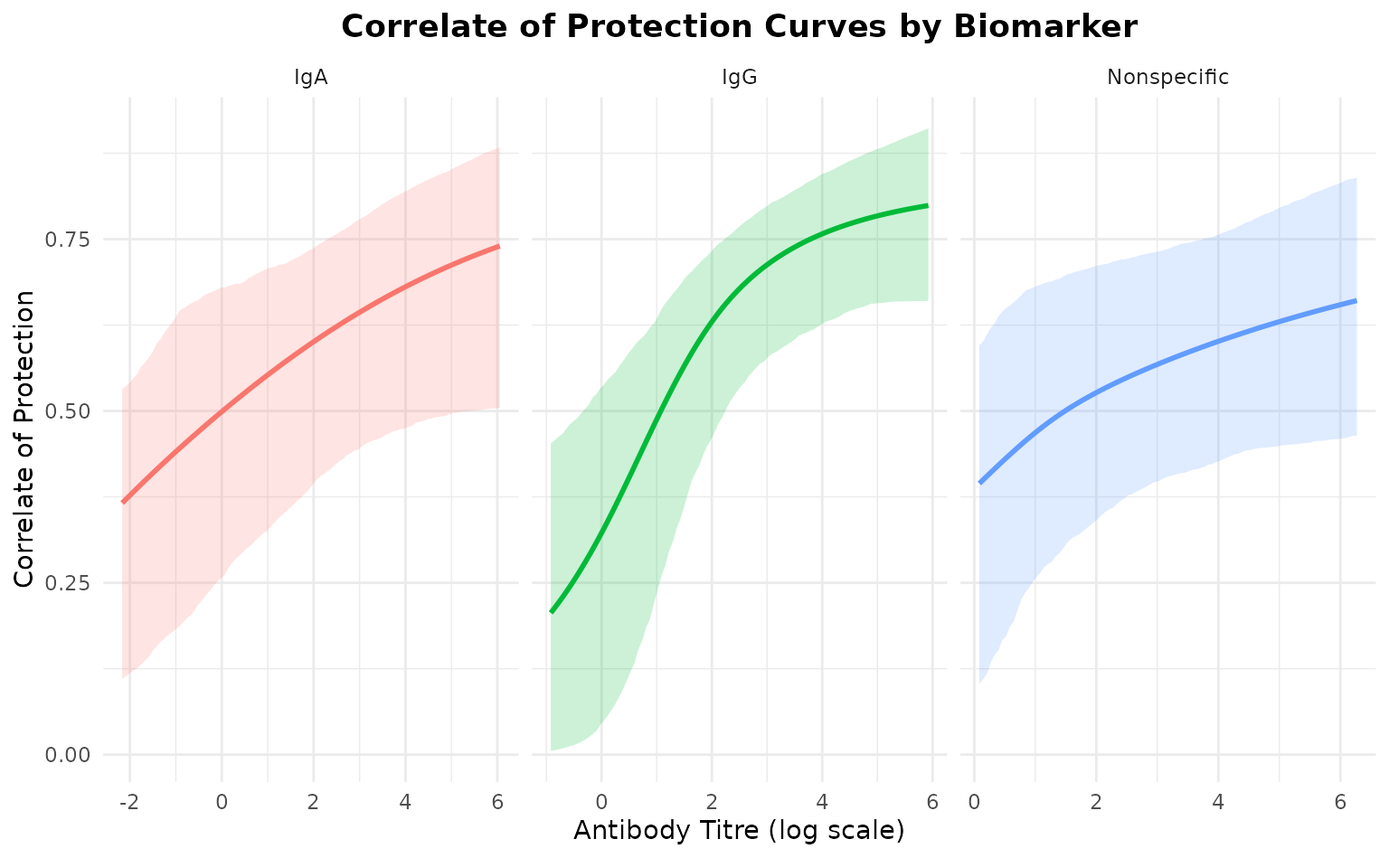
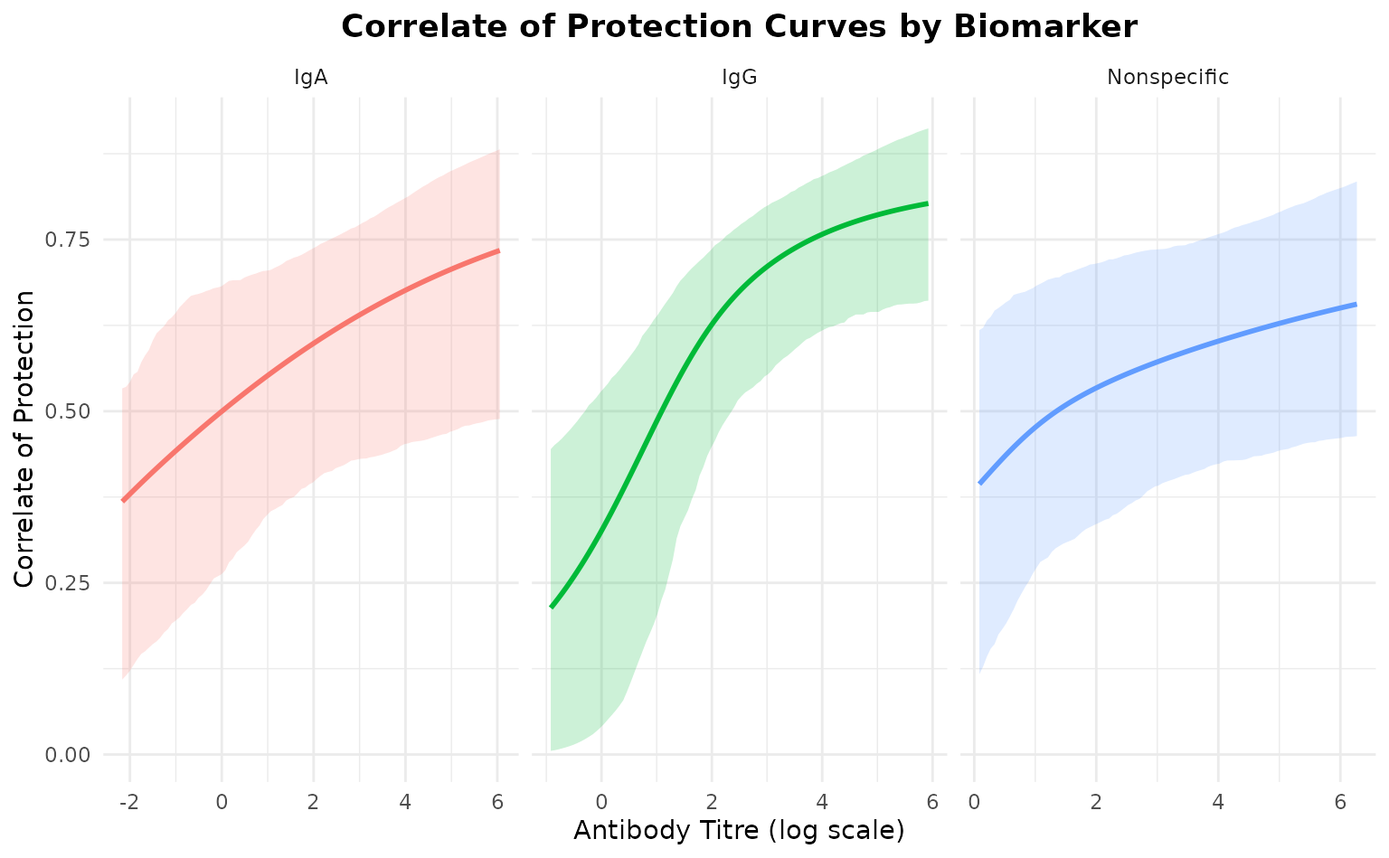
Deploying to gh-pages from @ seroanalytics/seroCOP@3b93e4ecfdc1b70e32760bc4ac2b8ab52de0d7f4 🚀

diff --git a/articles/multi-biomarker.html b/articles/multi-biomarker.html
@@ -223,16 +223,18 @@ all biomarkers:</p>
 <span>  warmup <span class="op">=</span> <span class="fl">500</span>,</span>
 <span>  cores <span class="op">=</span> <span class="fl">1</span></span>
 <span><span class="op">)</span></span>
+<span><span class="co">#&gt; Warning: Bulk Effective Samples Size (ESS) is too low, indicating posterior means and medians may be unreliable.</span></span>
+<span><span class="co">#&gt; Running the chains for more iterations may help. See</span></span>
+<span><span class="co">#&gt; https://mc-stan.org/misc/warnings.html#bulk-ess</span></span>
 <span><span class="co">#&gt; Warning: Tail Effective Samples Size (ESS) is too low, indicating posterior variances and tail quantiles may be unreliable.</span></span>
 <span><span class="co">#&gt; Running the chains for more iterations may help. See</span></span>
 <span><span class="co">#&gt; https://mc-stan.org/misc/warnings.html#tail-ess</span></span>
+<span><span class="co">#&gt; Warning: Bulk Effective Samples Size (ESS) is too low, indicating posterior means and medians may be unreliable.</span></span>
+<span><span class="co">#&gt; Running the chains for more iterations may help. See</span></span>
+<span><span class="co">#&gt; https://mc-stan.org/misc/warnings.html#bulk-ess</span></span>
 <span><span class="co">#&gt; Warning: Tail Effective Samples Size (ESS) is too low, indicating posterior variances and tail quantiles may be unreliable.</span></span>
 <span><span class="co">#&gt; Running the chains for more iterations may help. See</span></span>
 <span><span class="co">#&gt; https://mc-stan.org/misc/warnings.html#tail-ess</span></span>
-<span><span class="co">#&gt; Warning: There were 4 divergent transitions after warmup. See</span></span>
-<span><span class="co">#&gt; https://mc-stan.org/misc/warnings.html#divergent-transitions-after-warmup</span></span>
-<span><span class="co">#&gt; to find out why this is a problem and how to eliminate them.</span></span>
-<span><span class="co">#&gt; Warning: Examine the pairs() plot to diagnose sampling problems</span></span>
 <span><span class="co">#&gt; Warning: Bulk Effective Samples Size (ESS) is too low, indicating posterior means and medians may be unreliable.</span></span>
 <span><span class="co">#&gt; Running the chains for more iterations may help. See</span></span>
 <span><span class="co">#&gt; https://mc-stan.org/misc/warnings.html#bulk-ess</span></span>
@@ -286,27 +288,27 @@ within the model as <code>1 - (prob_infection / ceiling)</code>.</p>
 <span><span class="co">#&gt; </span></span>
 <span><span class="co">#&gt; === IgG ===</span></span>
 <span><span class="co">#&gt;      titre correlate_of_risk correlate_of_protection</span></span>
-<span><span class="co">#&gt; 1 3.244908         0.2352331               0.7262376</span></span>
-<span><span class="co">#&gt; 2 2.542770         0.2738127               0.6813175</span></span>
-<span><span class="co">#&gt; 3 3.427785         0.2275775               0.7351306</span></span>
-<span><span class="co">#&gt; 4 4.026987         0.2073856               0.7585850</span></span>
-<span><span class="co">#&gt; 5 2.945171         0.2497102               0.7094076</span></span>
+<span><span class="co">#&gt; 1 3.244908         0.2355256               0.7246047</span></span>
+<span><span class="co">#&gt; 2 2.542770         0.2749729               0.6783408</span></span>
+<span><span class="co">#&gt; 3 3.427785         0.2275813               0.7338912</span></span>
+<span><span class="co">#&gt; 4 4.026987         0.2063750               0.7586709</span></span>
+<span><span class="co">#&gt; 5 2.945171         0.2504316               0.7071590</span></span>
 <span><span class="co">#&gt; </span></span>
 <span><span class="co">#&gt; === IgA ===</span></span>
 <span><span class="co">#&gt;      titre correlate_of_risk correlate_of_protection</span></span>
-<span><span class="co">#&gt; 1 2.835740         0.2752444               0.6369108</span></span>
-<span><span class="co">#&gt; 2 2.701161         0.2795309               0.6313533</span></span>
-<span><span class="co">#&gt; 3 2.604183         0.2826732               0.6272854</span></span>
-<span><span class="co">#&gt; 4 3.136495         0.2659747               0.6489607</span></span>
-<span><span class="co">#&gt; 5 1.077544         0.3380522               0.5563986</span></span>
+<span><span class="co">#&gt; 1 2.835740         0.2766442               0.6337947</span></span>
+<span><span class="co">#&gt; 2 2.701161         0.2808055               0.6284272</span></span>
+<span><span class="co">#&gt; 3 2.604183         0.2838555               0.6244977</span></span>
+<span><span class="co">#&gt; 4 3.136495         0.2676413               0.6454331</span></span>
+<span><span class="co">#&gt; 5 1.077544         0.3376566               0.5558069</span></span>
 <span><span class="co">#&gt; </span></span>
 <span><span class="co">#&gt; === Nonspecific ===</span></span>
 <span><span class="co">#&gt;      titre correlate_of_risk correlate_of_protection</span></span>
-<span><span class="co">#&gt; 1 1.706775         0.3563423               0.5121266</span></span>
-<span><span class="co">#&gt; 2 4.967871         0.2682923               0.6291044</span></span>
-<span><span class="co">#&gt; 3 3.522967         0.2998723               0.5860303</span></span>
-<span><span class="co">#&gt; 4 3.957672         0.2895204               0.6000229</span></span>
-<span><span class="co">#&gt; 5 4.374356         0.2803211               0.6125631</span></span></code></pre></div>
+<span><span class="co">#&gt; 1 1.706775         0.3512910               0.5200332</span></span>
+<span><span class="co">#&gt; 2 4.967871         0.2709885               0.6271061</span></span>
+<span><span class="co">#&gt; 3 3.522967         0.2990792               0.5882780</span></span>
+<span><span class="co">#&gt; 4 3.957672         0.2898791               0.6008559</span></span>
+<span><span class="co">#&gt; 5 4.374356         0.2817068               0.6121462</span></span></code></pre></div>
 <div class="section level4">
 <h4 id="correlate-of-protection-curves">Correlate of Protection Curves<a class="anchor" aria-label="anchor" href="#correlate-of-protection-curves"></a>
 </h4>
@@ -369,9 +371,9 @@ titre for each biomarker.</p>
 <span><span class="co">#&gt; === Biomarker Comparison ===</span></span>
 <span><span class="co">#&gt; </span></span>
 <span><span class="co">#&gt;    biomarker       auc auc_lower auc_upper     brier  loo_elpd   loo_se</span></span>
-<span><span class="co">#&gt;          IgG 0.6160012 0.5350460 0.6969564 0.2025719 -151.2038 6.848723</span></span>
-<span><span class="co">#&gt;          IgA 0.5559589 0.4795334 0.6323843 0.2105939 -154.8697 6.003238</span></span>
-<span><span class="co">#&gt;  Nonspecific 0.5062008 0.4277909 0.5846108 0.2127203 -156.0879 5.832755</span></span></code></pre></div>
+<span><span class="co">#&gt;          IgG 0.6160012 0.5350460 0.6969564 0.2026267 -151.3358 6.852408</span></span>
+<span><span class="co">#&gt;          IgA 0.5559589 0.4795334 0.6323843 0.2105623 -154.8649 5.978793</span></span>
+<span><span class="co">#&gt;  Nonspecific 0.5062008 0.4277909 0.5846108 0.2125480 -156.0416 5.877900</span></span></code></pre></div>
 <p>The comparison table shows:</p>
 <ul>
 <li>
@@ -396,9 +398,9 @@ performance:</p>
 <span><span class="co">#&gt; === Biomarker Comparison ===</span></span>
 <span><span class="co">#&gt; </span></span>
 <span><span class="co">#&gt;    biomarker       auc auc_lower auc_upper     brier  loo_elpd   loo_se</span></span>
-<span><span class="co">#&gt;          IgG 0.6160012 0.5350460 0.6969564 0.2025719 -151.2038 6.848723</span></span>
-<span><span class="co">#&gt;          IgA 0.5559589 0.4795334 0.6323843 0.2105939 -154.8697 6.003238</span></span>
-<span><span class="co">#&gt;  Nonspecific 0.5062008 0.4277909 0.5846108 0.2127203 -156.0879 5.832755</span></span>
+<span><span class="co">#&gt;          IgG 0.6160012 0.5350460 0.6969564 0.2026267 -151.3358 6.852408</span></span>
+<span><span class="co">#&gt;          IgA 0.5559589 0.4795334 0.6323843 0.2105623 -154.8649 5.978793</span></span>
+<span><span class="co">#&gt;  Nonspecific 0.5062008 0.4277909 0.5846108 0.2125480 -156.0416 5.877900</span></span>
 <span><span class="co">#&gt; `height` was translated to `width`.</span></span></code></pre></div>
 <p><img src="multi-biomarker_files/figure-html/plot-comparison-1.png" class="r-plt" alt="" width="768"></p>
 <p>Interpretation:</p>
@@ -442,10 +444,10 @@ biomarker:</p>
 <span><span class="co">#&gt; </span></span>
 <span><span class="co">#&gt; Estimated parameters:</span></span>
 <span><span class="co">#&gt;   parameter      mean        lower     upper</span></span>
-<span><span class="co">#&gt; 1     floor 0.1668906  0.008756443 0.3299038</span></span>
-<span><span class="co">#&gt; 2   ceiling 0.8726773  0.631702622 0.9948958</span></span>
-<span><span class="co">#&gt; 3      ec50 0.5046747 -0.933198700 1.8198778</span></span>
-<span><span class="co">#&gt; 4     slope 0.9645425  0.260297945 2.4296143</span></span>
+<span><span class="co">#&gt; 1     floor 0.1591710  0.007286481 0.3278561</span></span>
+<span><span class="co">#&gt; 2   ceiling 0.8701495  0.618644383 0.9957030</span></span>
+<span><span class="co">#&gt; 3      ec50 0.5282921 -0.941247100 1.9136135</span></span>
+<span><span class="co">#&gt; 4     slope 0.9383067  0.269414845 2.4420292</span></span>
 <span><span class="co">#&gt; </span></span>
 <span><span class="co">#&gt; True parameters:</span></span>
 <span><span class="co">#&gt;   floor:   0.020</span></span>
@@ -457,10 +459,10 @@ biomarker:</p>
 <span><span class="co">#&gt; </span></span>
 <span><span class="co">#&gt; Estimated parameters:</span></span>
 <span><span class="co">#&gt;   parameter       mean        lower     upper</span></span>
-<span><span class="co">#&gt; 1     floor  0.1047368  0.002761649 0.3363670</span></span>
-<span><span class="co">#&gt; 2   ceiling  0.7889860  0.506412644 0.9923182</span></span>
-<span><span class="co">#&gt; 3      ec50 -0.5981069 -3.575477162 3.3335175</span></span>
-<span><span class="co">#&gt; 4     slope  0.3913217  0.036795980 2.0685040</span></span>
+<span><span class="co">#&gt; 1     floor  0.1012184  0.001955156 0.3324208</span></span>
+<span><span class="co">#&gt; 2   ceiling  0.7860048  0.509050642 0.9947033</span></span>
+<span><span class="co">#&gt; 3      ec50 -0.5379052 -3.434444065 3.4021940</span></span>
+<span><span class="co">#&gt; 4     slope  0.3942397  0.021572361 2.0887926</span></span>
 <span><span class="co">#&gt; </span></span>
 <span><span class="co">#&gt; True parameters:</span></span>
 <span><span class="co">#&gt;   floor:   0.150</span></span>
@@ -472,10 +474,10 @@ biomarker:</p>
 <span><span class="co">#&gt; </span></span>
 <span><span class="co">#&gt; Estimated parameters:</span></span>
 <span><span class="co">#&gt;   parameter      mean        lower     upper</span></span>
-<span><span class="co">#&gt; 1     floor 0.1337587  0.002786049 0.3809372</span></span>
-<span><span class="co">#&gt; 2   ceiling 0.7562786  0.511992712 0.9952538</span></span>
-<span><span class="co">#&gt; 3      ec50 1.2901688 -1.383995530 4.7182893</span></span>
-<span><span class="co">#&gt; 4     slope 0.6234888  0.012052134 3.3512205</span></span>
+<span><span class="co">#&gt; 1     floor 0.1430507  0.001287225 0.3747879</span></span>
+<span><span class="co">#&gt; 2   ceiling 0.7598000  0.507571821 0.9861794</span></span>
+<span><span class="co">#&gt; 3      ec50 1.2508301 -1.441352035 4.7272448</span></span>
+<span><span class="co">#&gt; 4     slope 0.7290948  0.011401633 3.7262757</span></span>
 <span><span class="co">#&gt; </span></span>
 <span><span class="co">#&gt; True parameters:</span></span>
 <span><span class="co">#&gt;   floor:   0.350</span></span>
@@ -585,12 +587,12 @@ biomarker:</p>
 <span><span class="co">#&gt; Computed from 2000 by 250 log-likelihood matrix.</span></span>
 <span><span class="co">#&gt; </span></span>
 <span><span class="co">#&gt;          Estimate   SE</span></span>
-<span><span class="co">#&gt; elpd_loo   -151.2  6.8</span></span>
-<span><span class="co">#&gt; p_loo         2.6  0.2</span></span>
-<span><span class="co">#&gt; looic       302.4 13.7</span></span>
+<span><span class="co">#&gt; elpd_loo   -151.3  6.9</span></span>
+<span><span class="co">#&gt; p_loo         2.7  0.2</span></span>
+<span><span class="co">#&gt; looic       302.7 13.7</span></span>
 <span><span class="co">#&gt; ------</span></span>
 <span><span class="co">#&gt; MCSE of elpd_loo is 0.1.</span></span>
-<span><span class="co">#&gt; MCSE and ESS estimates assume MCMC draws (r_eff in [0.3, 1.0]).</span></span>
+<span><span class="co">#&gt; MCSE and ESS estimates assume MCMC draws (r_eff in [0.2, 0.8]).</span></span>
 <span><span class="co">#&gt; </span></span>
 <span><span class="co">#&gt; All Pareto k estimates are good (k &lt; 0.7).</span></span>
 <span><span class="co">#&gt; See help('pareto-k-diagnostic') for details.</span></span>
@@ -605,7 +607,7 @@ biomarker:</p>
 <span><span class="co">#&gt; looic       309.7 12.0</span></span>
 <span><span class="co">#&gt; ------</span></span>
 <span><span class="co">#&gt; MCSE of elpd_loo is 0.0.</span></span>
-<span><span class="co">#&gt; MCSE and ESS estimates assume MCMC draws (r_eff in [0.3, 0.8]).</span></span>
+<span><span class="co">#&gt; MCSE and ESS estimates assume MCMC draws (r_eff in [0.3, 0.7]).</span></span>
 <span><span class="co">#&gt; </span></span>
 <span><span class="co">#&gt; All Pareto k estimates are good (k &lt; 0.7).</span></span>
 <span><span class="co">#&gt; See help('pareto-k-diagnostic') for details.</span></span>
@@ -615,12 +617,12 @@ biomarker:</p>
 <span><span class="co">#&gt; Computed from 2000 by 250 log-likelihood matrix.</span></span>
 <span><span class="co">#&gt; </span></span>
 <span><span class="co">#&gt;          Estimate   SE</span></span>
-<span><span class="co">#&gt; elpd_loo   -156.1  5.8</span></span>
-<span><span class="co">#&gt; p_loo         1.9  0.1</span></span>
-<span><span class="co">#&gt; looic       312.2 11.7</span></span>
+<span><span class="co">#&gt; elpd_loo   -156.0  5.9</span></span>
+<span><span class="co">#&gt; p_loo         1.9  0.2</span></span>
+<span><span class="co">#&gt; looic       312.1 11.8</span></span>
 <span><span class="co">#&gt; ------</span></span>
 <span><span class="co">#&gt; MCSE of elpd_loo is 0.1.</span></span>
-<span><span class="co">#&gt; MCSE and ESS estimates assume MCMC draws (r_eff in [0.1, 0.6]).</span></span>
+<span><span class="co">#&gt; MCSE and ESS estimates assume MCMC draws (r_eff in [0.2, 0.8]).</span></span>
 <span><span class="co">#&gt; </span></span>
 <span><span class="co">#&gt; All Pareto k estimates are good (k &lt; 0.7).</span></span>
 <span><span class="co">#&gt; See help('pareto-k-diagnostic') for details.</span></span></code></pre></div>
@@ -694,7 +696,7 @@ multiple biomarkers to identify the best correlates of protection.</p>
 <span><span class="co">#&gt; [19] Matrix_1.7-4          checkmate_2.3.4       RColorBrewer_1.1-3   </span></span>
 <span><span class="co">#&gt; [22] S7_0.2.1              desc_1.4.3            distributional_0.6.0 </span></span>
 <span><span class="co">#&gt; [25] RcppParallel_5.1.11-2 lifecycle_1.0.5       compiler_4.5.2       </span></span>
-<span><span class="co">#&gt; [28] farver_2.1.2          stringr_1.6.0         textshaping_1.0.4    </span></span>
+<span><span class="co">#&gt; [28] farver_2.1.2          stringr_1.6.0         textshaping_1.0.5    </span></span>
 <span><span class="co">#&gt; [31] Brobdingnag_1.2-9     codetools_0.2-20      htmltools_0.5.9      </span></span>
 <span><span class="co">#&gt; [34] sass_0.4.10           bayesplot_1.15.0      yaml_2.3.12          </span></span>
 <span><span class="co">#&gt; [37] pillar_1.11.1         pkgdown_2.2.0         jquerylib_0.1.4      </span></span>
@@ -706,11 +708,11 @@ multiple biomarkers to identify the best correlates of protection.</p>
 <span><span class="co">#&gt; [55] cli_3.6.5             magrittr_2.0.4        loo_2.9.0            </span></span>
 <span><span class="co">#&gt; [58] pkgbuild_1.4.8        withr_3.0.2           scales_1.4.0         </span></span>
 <span><span class="co">#&gt; [61] backports_1.5.0       rmarkdown_2.30        matrixStats_1.5.0    </span></span>
-<span><span class="co">#&gt; [64] gridExtra_2.3         ragg_1.5.0            coda_0.19-4.1        </span></span>
+<span><span class="co">#&gt; [64] gridExtra_2.3         ragg_1.5.1            coda_0.19-4.1        </span></span>
 <span><span class="co">#&gt; [67] evaluate_1.0.5        knitr_1.51            rstantools_2.6.0     </span></span>
 <span><span class="co">#&gt; [70] rlang_1.1.7           Rcpp_1.1.1            glue_1.8.0           </span></span>
 <span><span class="co">#&gt; [73] pROC_1.19.0.1         jsonlite_2.0.0        R6_2.6.1             </span></span>
-<span><span class="co">#&gt; [76] systemfonts_1.3.2     fs_1.6.6</span></span></code></pre></div>
+<span><span class="co">#&gt; [76] systemfonts_1.3.2     fs_1.6.7</span></span></code></pre></div>
 </div>
 </div>
   </div>

diff --git a/articles/hierarchical-groups.html b/articles/hierarchical-groups.html
@@ -254,13 +254,16 @@ group-specific deviations:</p>
 <code class="sourceCode R"><span><span class="co"># Extract group-specific estimates</span></span>
 <span><span class="va">group_params</span> <span class="op">&lt;-</span> <span class="va">hier_model</span><span class="op">$</span><span class="fu">extract_group_parameters</span><span class="op">(</span><span class="op">)</span></span>
 <span><span class="fu"><a href="https://rdrr.io/r/base/print.html" class="external-link">print</a></span><span class="op">(</span><span class="va">group_params</span><span class="op">)</span></span>
-<span><span class="co">#&gt;    group parameter      mean    median        sd        q025     q975</span></span>
-<span><span class="co">#&gt; 1 Middle      ec50 0.6928441 0.6896699 0.8399503 -1.03692875 2.263926</span></span>
-<span><span class="co">#&gt; 2 Middle     slope 1.2786158 0.8960131 1.7064126  0.39470380 4.916474</span></span>
-<span><span class="co">#&gt; 3    Old      ec50 1.3419453 1.2567962 1.1769834 -0.89383479 3.714378</span></span>
-<span><span class="co">#&gt; 4    Old     slope 0.5358810 0.4182317 0.5308947  0.09559395 1.765156</span></span>
-<span><span class="co">#&gt; 5  Young      ec50 0.6413999 0.7731695 0.6524016 -0.89612557 1.620707</span></span>
-<span><span class="co">#&gt; 6  Young     slope 2.2796920 1.8633320 1.6158331  0.56209917 6.292798</span></span></code></pre></div>
+<span><span class="co">#&gt;    group parameter      mean    median        sd       q025     q975</span></span>
+<span><span class="co">#&gt; 1 Middle   ceiling 0.6258615 0.6001679 0.1810434  0.3351707 1.000000</span></span>
+<span><span class="co">#&gt; 2 Middle      ec50 1.2208834 1.3509744 1.0489945 -1.0505385 2.897496</span></span>
+<span><span class="co">#&gt; 3 Middle     slope 1.9026316 1.2140542 1.8379125  0.3977485 6.758034</span></span>
+<span><span class="co">#&gt; 4    Old   ceiling 0.7671251 0.7732928 0.1572387  0.4228977 1.000000</span></span>
+<span><span class="co">#&gt; 5    Old      ec50 1.5566731 1.4304752 1.5872436 -1.3067207 5.213811</span></span>
+<span><span class="co">#&gt; 6    Old     slope 0.7073677 0.4777072 0.9445221  0.1142225 3.011993</span></span>
+<span><span class="co">#&gt; 7  Young   ceiling 0.6661553 0.6616788 0.1534055  0.3722268 1.000000</span></span>
+<span><span class="co">#&gt; 8  Young      ec50 0.8981806 1.0057785 0.6475540 -0.7558377 1.886408</span></span>
+<span><span class="co">#&gt; 9  Young     slope 2.8092492 2.3884836 1.9647780  0.6164553 7.762248</span></span></code></pre></div>
 <p>The table shows:</p>
 <ul>
 <li>
@@ -335,13 +338,13 @@ fit:</p>
 <span><span class="co">#&gt; === Model Comparison (LOO-CV) ===</span></span>
 <span><span class="fu"><a href="https://rdrr.io/r/base/cat.html" class="external-link">cat</a></span><span class="op">(</span><span class="fu"><a href="https://rdrr.io/r/base/sprintf.html" class="external-link">sprintf</a></span><span class="op">(</span><span class="st">"Hierarchical model ELPD: %.2f (SE: %.2f)\n"</span>, </span>
 <span>           <span class="va">hier_loo</span><span class="op">[</span><span class="st">"Estimate"</span><span class="op">]</span>, <span class="va">hier_loo</span><span class="op">[</span><span class="st">"SE"</span><span class="op">]</span><span class="op">)</span><span class="op">)</span></span>
-<span><span class="co">#&gt; Hierarchical model ELPD: -119.77 (SE: 8.30)</span></span>
+<span><span class="co">#&gt; Hierarchical model ELPD: -119.84 (SE: 8.30)</span></span>
 <span><span class="fu"><a href="https://rdrr.io/r/base/cat.html" class="external-link">cat</a></span><span class="op">(</span><span class="fu"><a href="https://rdrr.io/r/base/sprintf.html" class="external-link">sprintf</a></span><span class="op">(</span><span class="st">"Pooled model ELPD:       %.2f (SE: %.2f)\n"</span>, </span>
 <span>           <span class="va">pooled_loo</span><span class="op">[</span><span class="st">"Estimate"</span><span class="op">]</span>, <span class="va">pooled_loo</span><span class="op">[</span><span class="st">"SE"</span><span class="op">]</span><span class="op">)</span><span class="op">)</span></span>
-<span><span class="co">#&gt; Pooled model ELPD:       -123.05 (SE: 8.27)</span></span>
+<span><span class="co">#&gt; Pooled model ELPD:       -123.06 (SE: 8.26)</span></span>
 <span><span class="fu"><a href="https://rdrr.io/r/base/cat.html" class="external-link">cat</a></span><span class="op">(</span><span class="fu"><a href="https://rdrr.io/r/base/sprintf.html" class="external-link">sprintf</a></span><span class="op">(</span><span class="st">"\nDifference: %.2f (SE: %.2f)\n"</span>, <span class="va">loo_diff</span>, <span class="va">loo_se</span><span class="op">)</span><span class="op">)</span></span>
 <span><span class="co">#&gt; </span></span>
-<span><span class="co">#&gt; Difference: 3.28 (SE: 11.71)</span></span>
+<span><span class="co">#&gt; Difference: 3.22 (SE: 11.71)</span></span>
 <span><span class="fu"><a href="https://rdrr.io/r/base/cat.html" class="external-link">cat</a></span><span class="op">(</span><span class="fu"><a href="https://rdrr.io/r/base/sprintf.html" class="external-link">sprintf</a></span><span class="op">(</span><span class="st">"Z-score: %.2f\n"</span>, <span class="va">loo_diff</span> <span class="op">/</span> <span class="va">loo_se</span><span class="op">)</span><span class="op">)</span></span>
 <span><span class="co">#&gt; Z-score: 0.28</span></span>
 <span></span>
@@ -521,7 +524,7 @@ factors.</p>
 <span><span class="co">#&gt; [19] Matrix_1.7-4          checkmate_2.3.4       RColorBrewer_1.1-3   </span></span>
 <span><span class="co">#&gt; [22] S7_0.2.1              desc_1.4.3            distributional_0.6.0 </span></span>
 <span><span class="co">#&gt; [25] RcppParallel_5.1.11-2 lifecycle_1.0.5       compiler_4.5.2       </span></span>
-<span><span class="co">#&gt; [28] farver_2.1.2          stringr_1.6.0         textshaping_1.0.4    </span></span>
+<span><span class="co">#&gt; [28] farver_2.1.2          stringr_1.6.0         textshaping_1.0.5    </span></span>
 <span><span class="co">#&gt; [31] Brobdingnag_1.2-9     codetools_0.2-20      htmltools_0.5.9      </span></span>
 <span><span class="co">#&gt; [34] sass_0.4.10           bayesplot_1.15.0      yaml_2.3.12          </span></span>
 <span><span class="co">#&gt; [37] pillar_1.11.1         pkgdown_2.2.0         jquerylib_0.1.4      </span></span>
@@ -533,11 +536,11 @@ factors.</p>
 <span><span class="co">#&gt; [55] grid_4.5.2            cli_3.6.5             magrittr_2.0.4       </span></span>
 <span><span class="co">#&gt; [58] loo_2.9.0             pkgbuild_1.4.8        withr_3.0.2          </span></span>
 <span><span class="co">#&gt; [61] scales_1.4.0          backports_1.5.0       rmarkdown_2.30       </span></span>
-<span><span class="co">#&gt; [64] matrixStats_1.5.0     gridExtra_2.3         ragg_1.5.0           </span></span>
+<span><span class="co">#&gt; [64] matrixStats_1.5.0     gridExtra_2.3         ragg_1.5.1           </span></span>
 <span><span class="co">#&gt; [67] coda_0.19-4.1         evaluate_1.0.5        knitr_1.51           </span></span>
 <span><span class="co">#&gt; [70] mgcv_1.9-3            rstantools_2.6.0      rlang_1.1.7          </span></span>
 <span><span class="co">#&gt; [73] Rcpp_1.1.1            glue_1.8.0            jsonlite_2.0.0       </span></span>
-<span><span class="co">#&gt; [76] R6_2.6.1              systemfonts_1.3.2     fs_1.6.6</span></span></code></pre></div>
+<span><span class="co">#&gt; [76] R6_2.6.1              systemfonts_1.3.2     fs_1.6.7</span></span></code></pre></div>
 </div>
   </div>
 

diff --git a/articles/simulation-recovery.html b/articles/simulation-recovery.html
@@ -353,9 +353,9 @@ compare them to the true values:</p>
 <code class="sourceCode R"><span><span class="co"># Get performance metrics</span></span>
 <span><span class="va">metrics</span> <span class="op">&lt;-</span> <span class="va">model</span><span class="op">$</span><span class="fu">get_metrics</span><span class="op">(</span><span class="op">)</span></span>
 <span><span class="co">#&gt; Performance Metrics:</span></span>
-<span><span class="co">#&gt;   ROC AUC: 0.760</span></span>
-<span><span class="co">#&gt;   Brier Score: 0.164</span></span>
-<span><span class="co">#&gt;   LOO ELPD: -152.67 (SE: 9.16)</span></span></code></pre></div>
+<span><span class="co">#&gt;   ROC AUC (marginalised):        0.760</span></span>
+<span><span class="co">#&gt;   Brier Score:                   0.164</span></span>
+<span><span class="co">#&gt;   LOO ELPD:                      -152.67 (SE: 9.16)</span></span></code></pre></div>
 <p>The model shows good performance:</p>
 <ul>
 <li>
@@ -597,7 +597,7 @@ through Bayesian inference.</p>
 <span><span class="co">#&gt; [19] Matrix_1.7-4          checkmate_2.3.4       RColorBrewer_1.1-3   </span></span>
 <span><span class="co">#&gt; [22] S7_0.2.1              desc_1.4.3            distributional_0.6.0 </span></span>
 <span><span class="co">#&gt; [25] RcppParallel_5.1.11-2 lifecycle_1.0.5       compiler_4.5.2       </span></span>
-<span><span class="co">#&gt; [28] farver_2.1.2          stringr_1.6.0         textshaping_1.0.4    </span></span>
+<span><span class="co">#&gt; [28] farver_2.1.2          stringr_1.6.0         textshaping_1.0.5    </span></span>
 <span><span class="co">#&gt; [31] Brobdingnag_1.2-9     codetools_0.2-20      htmltools_0.5.9      </span></span>
 <span><span class="co">#&gt; [34] sass_0.4.10           bayesplot_1.15.0      yaml_2.3.12          </span></span>
 <span><span class="co">#&gt; [37] pillar_1.11.1         pkgdown_2.2.0         jquerylib_0.1.4      </span></span>
@@ -609,11 +609,11 @@ through Bayesian inference.</p>
 <span><span class="co">#&gt; [55] cli_3.6.5             magrittr_2.0.4        loo_2.9.0            </span></span>
 <span><span class="co">#&gt; [58] pkgbuild_1.4.8        withr_3.0.2           scales_1.4.0         </span></span>
 <span><span class="co">#&gt; [61] backports_1.5.0       rmarkdown_2.30        matrixStats_1.5.0    </span></span>
-<span><span class="co">#&gt; [64] gridExtra_2.3         ragg_1.5.0            coda_0.19-4.1        </span></span>
+<span><span class="co">#&gt; [64] gridExtra_2.3         ragg_1.5.1            coda_0.19-4.1        </span></span>
 <span><span class="co">#&gt; [67] evaluate_1.0.5        knitr_1.51            rstantools_2.6.0     </span></span>
 <span><span class="co">#&gt; [70] rlang_1.1.7           Rcpp_1.1.1            glue_1.8.0           </span></span>
 <span><span class="co">#&gt; [73] pROC_1.19.0.1         jsonlite_2.0.0        R6_2.6.1             </span></span>
-<span><span class="co">#&gt; [76] systemfonts_1.3.2     fs_1.6.6</span></span></code></pre></div>
+<span><span class="co">#&gt; [76] systemfonts_1.3.2     fs_1.6.7</span></span></code></pre></div>
 </div>
 </div>
   </div>
